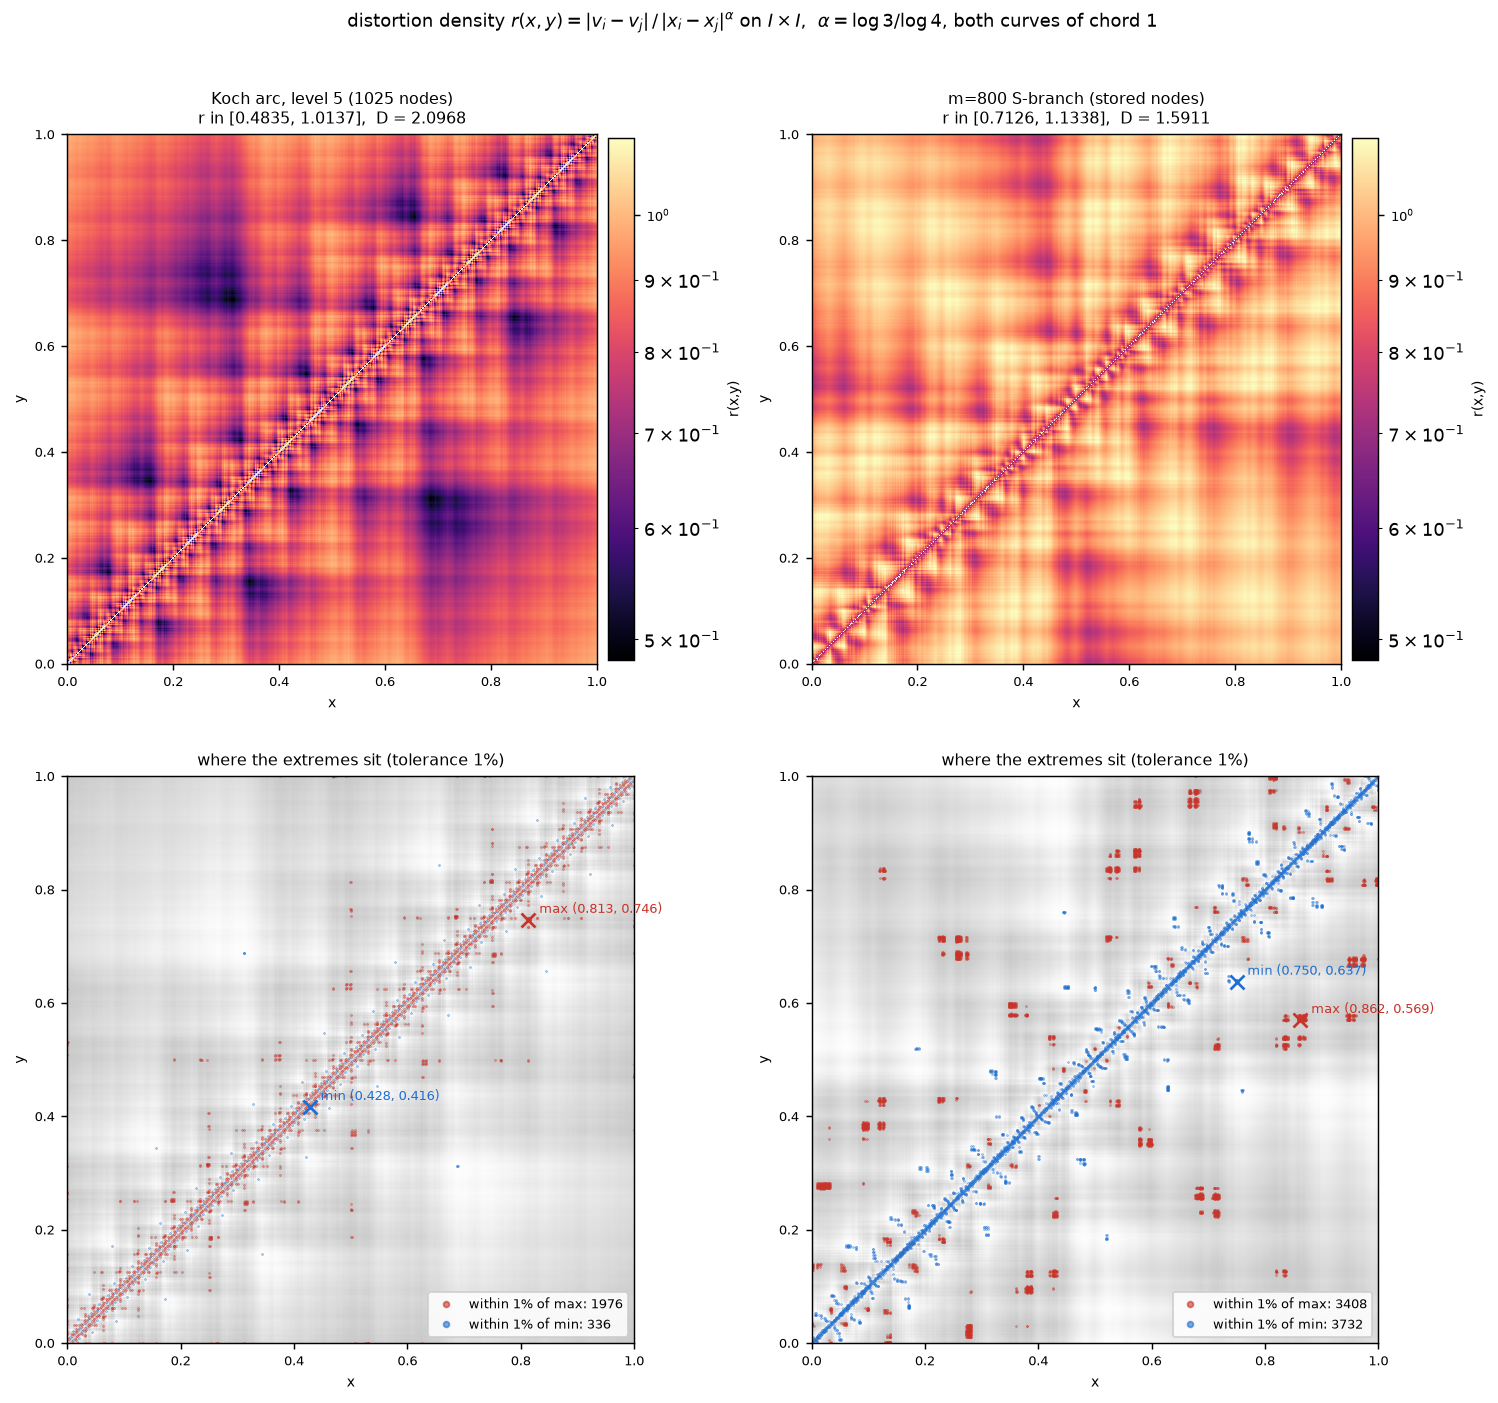
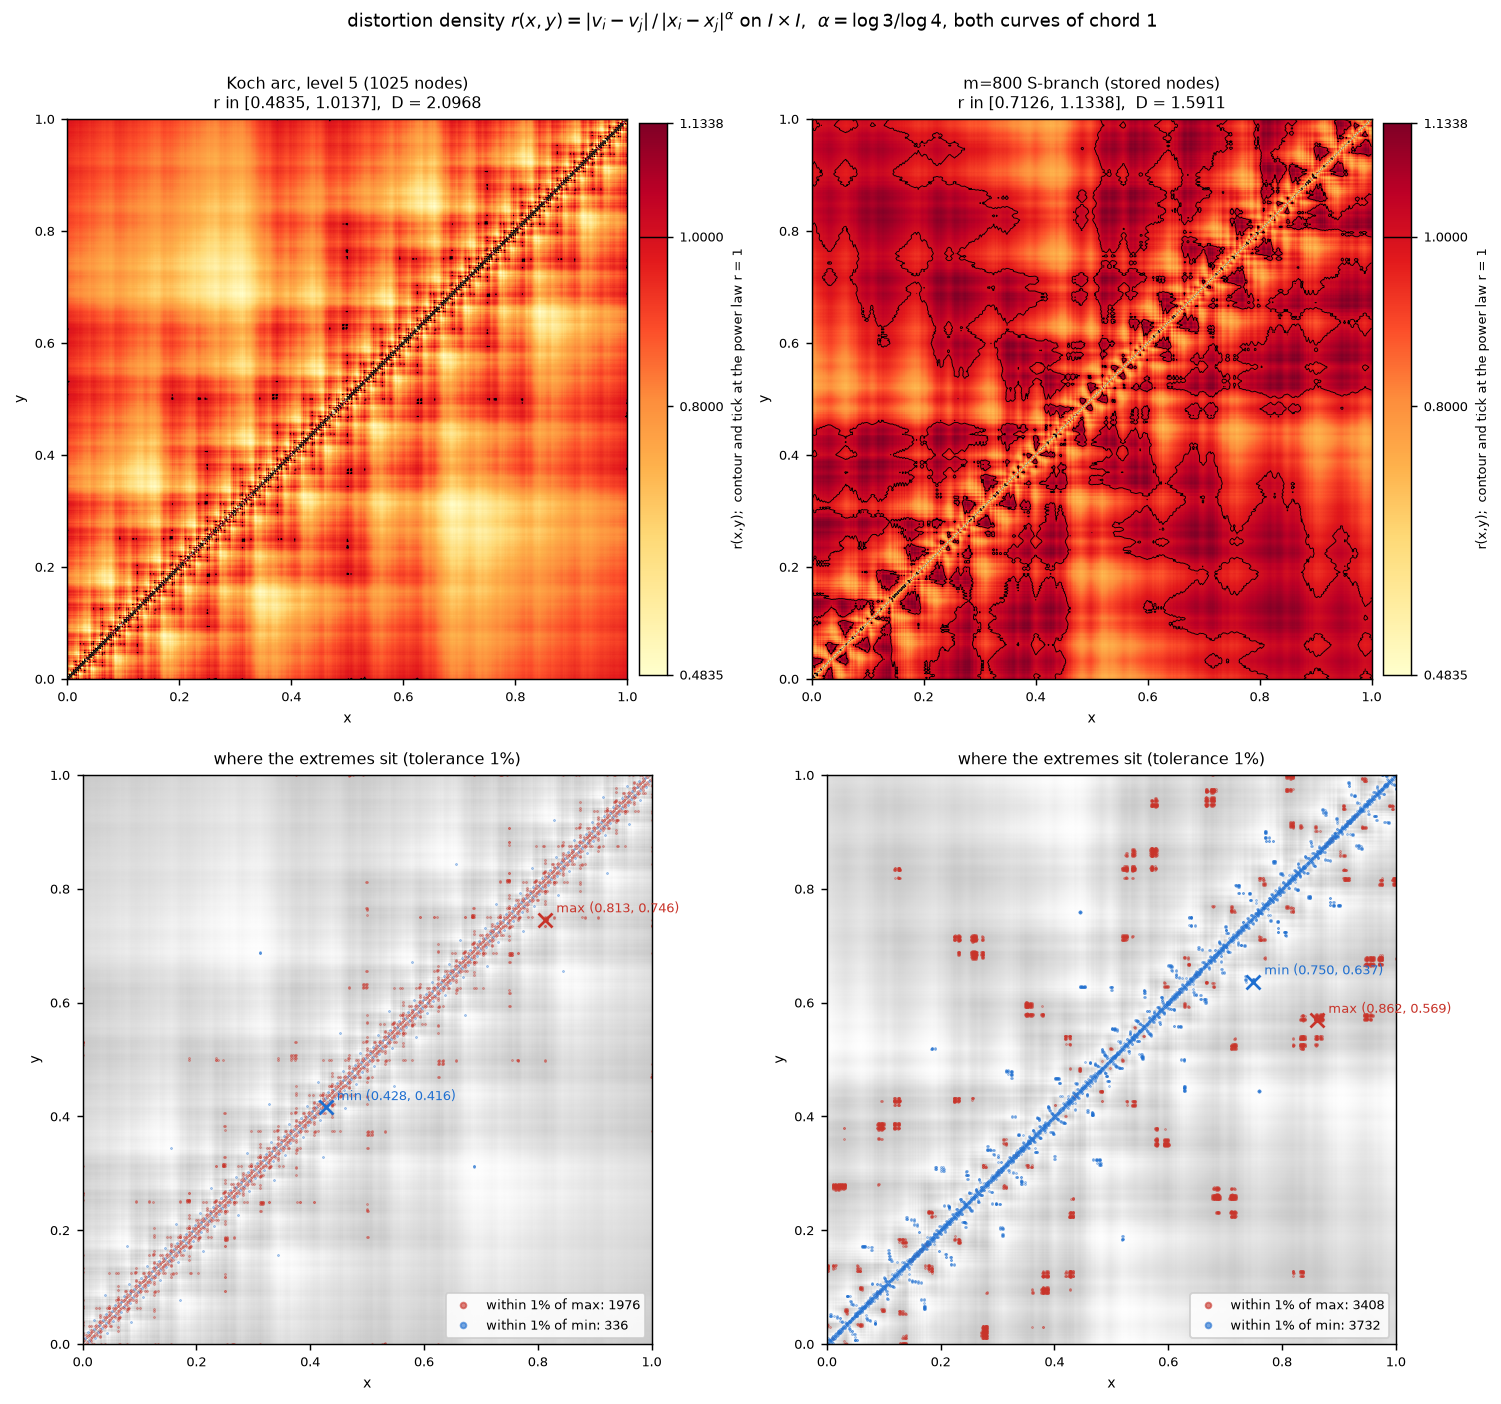
Render the distortion heatmap on a light-to-dark scale
The previous magma/log rendering put the low band (r about 0.48-0.55) in the
black part of the colormap, which read as missing data. Use a linear shared
scale from the exact global minimum to the maximum, pale to dark red, with the
r = 1 level set contoured and an assertion that nothing falls outside the
scale.

diff --git a/scripts/distortion_heatmap.py b/scripts/distortion_heatmap.py
@@ -26,7 +26,7 @@ import matplotlib
 matplotlib.use("Agg")
 import matplotlib.pyplot as plt
 import numpy as np
-from matplotlib.colors import LogNorm
+from matplotlib.colors import Normalize
 
 ROOT = Path(__file__).resolve().parents[1]
 sys.path.insert(0, str(ROOT / "scripts"))
@@ -76,18 +76,33 @@ def main():
 
     vmin = min(s["lo"] for s in st)
     vmax = max(s["hi"] for s in st)
+    # r = 1 is the alpha-power law itself, so centre the diverging scale there;
+    # the limits are exactly the extremes over both panels, so nothing is clipped
+    for (name, r, _), s in zip(data, st):
+        assert np.nanmin(r) >= vmin and np.nanmax(r) <= vmax
+    assert vmin < 1.0 < vmax, (vmin, vmax)
+    norm = Normalize(vmin=vmin, vmax=vmax)
+    print(f"shared linear scale [{vmin:.6f}, {vmax:.6f}]: nothing falls outside it, "
+          f"so nothing is clipped")
     fig, ax = plt.subplots(2, 2, figsize=(11.6, 10.8))
 
     for col, ((name, r, x), s) in enumerate(zip(data, st)):
         a0 = ax[0, col]
-        im = a0.imshow(r, origin="lower", extent=[0, 1, 0, 1], cmap="magma",
-                       norm=LogNorm(vmin=vmin, vmax=vmax), interpolation="nearest")
+        im = a0.imshow(r, origin="lower", extent=[0, 1, 0, 1], cmap="YlOrRd",
+                       norm=norm, interpolation="nearest")
+        # the level set r = 1 is the alpha-power law itself
+        a0.contour(np.linspace(0, 1, r.shape[1]), np.linspace(0, 1, r.shape[0]),
+                   np.nan_to_num(r, nan=1.0), levels=[1.0], colors="k", linewidths=0.5)
         a0.set_title(f"{name}\n"
                      f"r in [{s['lo']:.4f}, {s['hi']:.4f}],  D = {s['D']:.4f}", fontsize=9)
         a0.set_xlabel("x", fontsize=8); a0.set_ylabel("y", fontsize=8)
         a0.tick_params(labelsize=7)
-        cb = fig.colorbar(im, ax=a0, fraction=0.046, pad=0.02)
-        cb.set_label("r(x,y)", fontsize=8); cb.ax.tick_params(labelsize=7)
+        cb = fig.colorbar(im, ax=a0, fraction=0.046, pad=0.02,
+                          ticks=[vmin, 0.8, 1.0, vmax])
+        cb.set_label("r(x,y);  contour and tick at the power law r = 1", fontsize=7)
+        cb.ax.tick_params(labelsize=7)
+        cb.ax.axhline(1.0, color="k", lw=0.8)
+        a0.plot([0, 1], [0, 1], color="0.35", lw=0.4, alpha=0.7)
 
         a1 = ax[1, col]
         a1.imshow(r, origin="lower", extent=[0, 1, 0, 1], cmap="Greys",

diff --git a/results/distortion-heatmap.md b/results/distortion-heatmap.md
@@ -10,8 +10,19 @@ configurations, both at chord 1 so the fields are comparable:
 | Koch arc, level 5 | 1025 | $[0.483459,\ 1.013719]$ | $2.096805161$ |
 | $m=800$ S-branch | 800 | $[0.712611,\ 1.133801]$ | $1.591051961$ |
 
-Figure: `figures/distortion-heatmap.png` (log colour scale, shared), with the
-pairs within $1\%$ of each extreme marked underneath.
+Figure: `figures/distortion-heatmap.png`, with the pairs within $1\%$ of each
+extreme marked underneath.
+
+Colour convention: a shared linear scale whose limits are **exactly** the global
+minimum and maximum over both panels, $[0.483459,\ 1.133801]$, so no value is
+clipped (the script asserts it). Pale is the minimum, dark red the maximum; the
+black contour is the level set $r=1$, the $\alpha$-power law itself. The
+diagonal $x=y$, where $r$ is undefined, is masked and drawn as a thin line.
+
+An earlier rendering of the same field used `magma` on a log scale, whose low
+end is black: the pixels for $r\approx0.48$–$0.55$ then came out black and read
+as missing data. They were the minima. On that scale those values occupy only
+the first $15\%$ of the map, which is why the low band looked like holes.
 
 ## Why the node level, not the continuum
 
